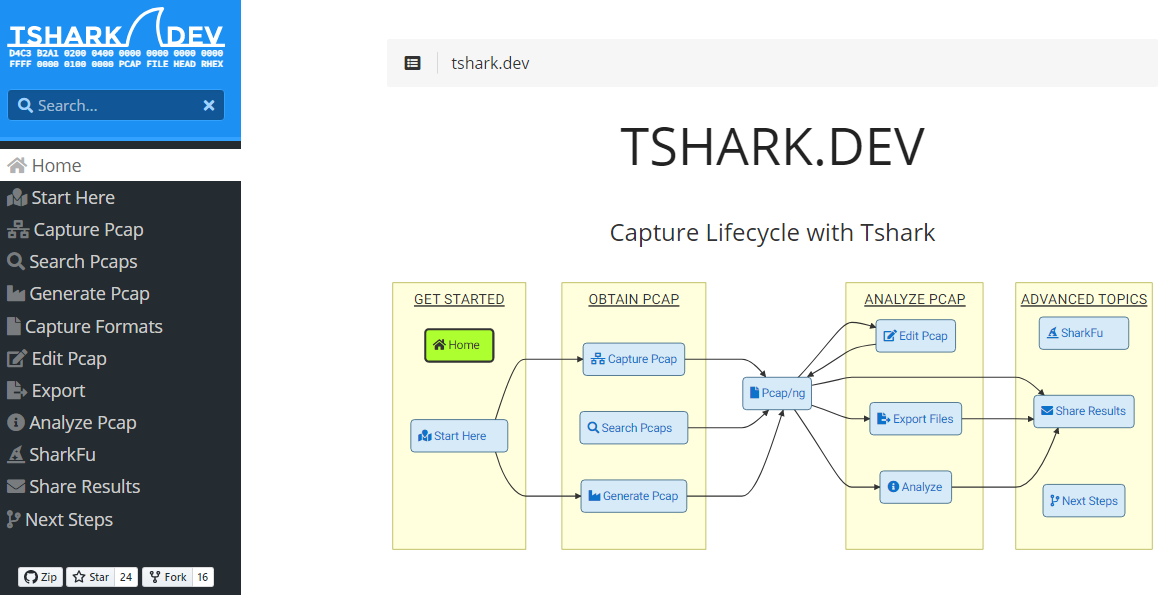
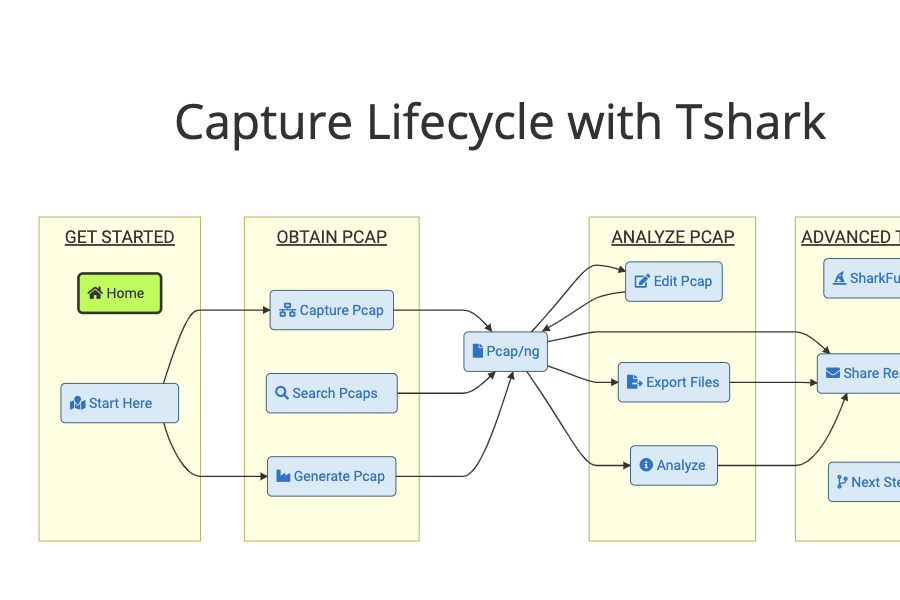
Reorganize /projects by year (2023 → 2020); preserve Hugo state before AstroPaper migration

diff --git a/content/projects.md b/content/projects.md
@@ -1,0 +1,56 @@
+---
+title: "Projects"
+description: "Open source projects and utilities I've built."
+---
+
+## 2023
+
+### [HAR To HTML](https://tools.ross.gg/har2html.html)
+
+[![HAR to HTML](/img/projects/har2html.png)](https://tools.ross.gg/har2html.html)
+
+Converts HAR files into readable HTML format.
+
+### [Emoji Time](https://tools.ross.gg/emojitime)
+
+[![Emoji Time](/img/projects/emoji_time.png)](https://tools.ross.gg/emojitime)
+
+A clock that uses base-60 emojis to tell time.
+
+## 2020
+
+### [tshark.dev](https://tshark.dev)
+
+[![tshark.dev](/img/projects/tshark.dev.png)](https://tshark.dev)
+
+Your complete guide to working with packet captures on the command-line. Every Wireshark CLI utility is documented with examples. ~1000 visitors/day, linked by universities and Wireshark docs. Includes the only searchable pcap database on the internet.
+
+### [C/C++ Pre-Commit Hooks](https://github.com/pocc/pre-commit-hooks)
+
+[![pre-commit-hooks](/img/projects/pre-commit_hooks.png)](https://github.com/pocc/pre-commit-hooks)
+
+Seven C/C++ linter integrations for CI/CD pipelines via [pre-commit](https://pre-commit.com). Integrates clang-format, uncrustify, clang-tidy, oclint, cppcheck, cpplint, and include-what-you-use.
+
+### [Bulk Delete Notion Pages](https://tools.ross.gg/bulk_delete_notion_pages.html)
+
+[![Bulk Delete Notion Pages](/img/projects/bulk_delete_notion_pages.png)](https://tools.ross.gg/bulk_delete_notion_pages.html)
+
+Bookmarklet for batch removal of files from Notion's trash.
+
+### [Raspberry Pi Decimal Time](https://tools.ross.gg/julian_date.html)
+
+[![Decimal Time](/img/projects/julian_time.png)](https://tools.ross.gg/julian_date.html)
+
+Modified Julian Date with day fraction, for every screen size.
+
+### [BGA Discord Bot](https://github.com/pocc/bga_discord)
+
+[![BGA Discord Bot](/img/projects/bga_discord.png)](https://github.com/pocc/bga_discord)
+
+Discord bot for managing Board Game Arena games.
+
+### [Bosspiles Discord Bot](https://github.com/pocc/bosspiles)
+
+[![Bosspiles Discord Bot](/img/projects/bga_bosspiles.png)](https://github.com/pocc/bosspiles)
+
+Discord bot for administering bosspiles on the BGA Discord server.